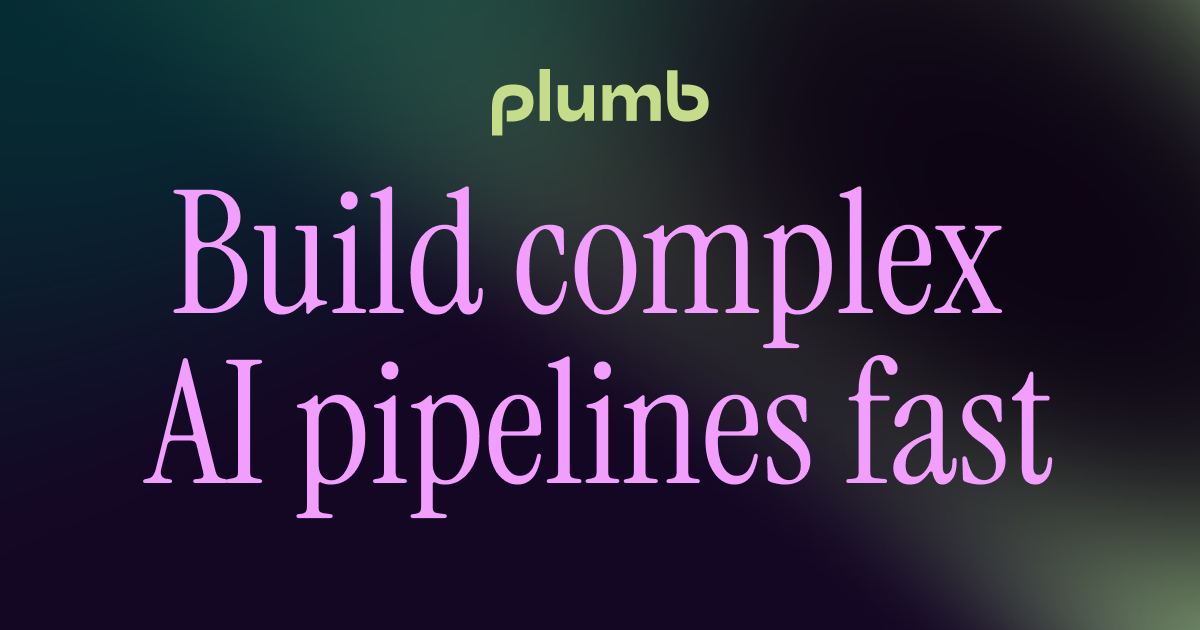
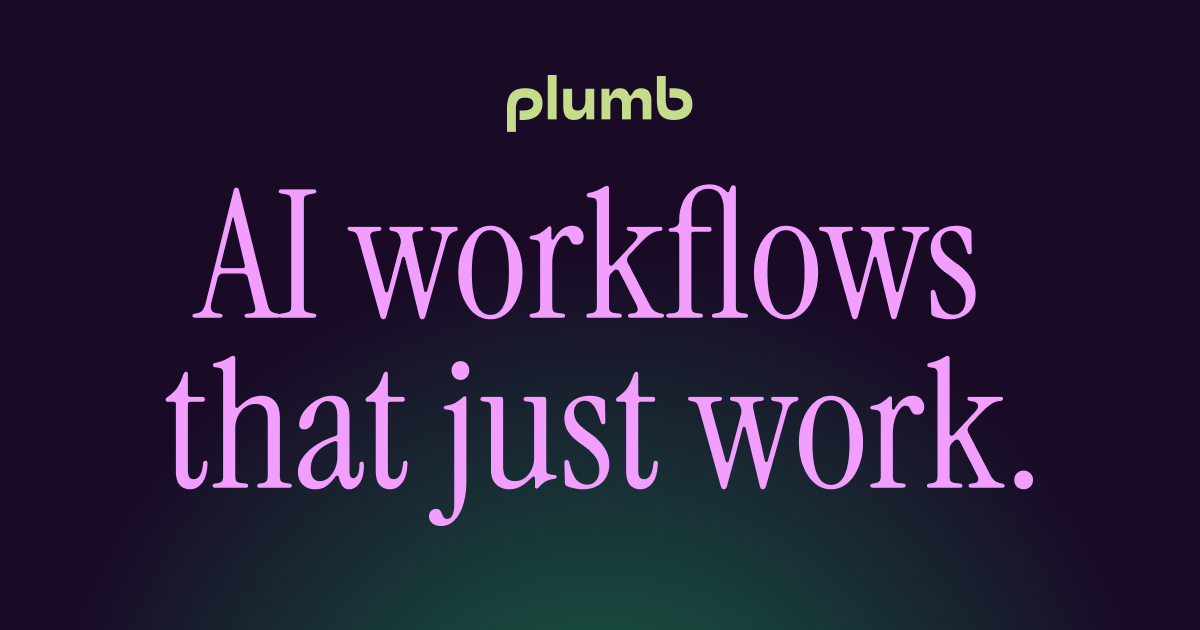
update post styling and plumb card

diff --git a/src/app/posts/[slug]/IncompleteArticle.tsx b/src/app/posts/[slug]/IncompleteArticle.tsx
@@ -15,7 +15,7 @@ export const IncompleteArticle = ({ slug }: { slug: string }) => {
   }, []);
 
   return (
-    <div className="mx-auto max-w-xl p-8 border border-purple-500 dark:border-purple-300 rounded-xl bg-background text-center">
+    <div className="mt-10 mb-3 w-full p-8 border border-purple-500 dark:border-purple-300 rounded-xl bg-background text-center">
       {submitted ? (
         <>
           <h2 className="my-0 py-0 border-none">Thank you!</h2>
@@ -32,11 +32,10 @@ export const IncompleteArticle = ({ slug }: { slug: string }) => {
             This post is a work in progress and not yet complete. If you're
             interested in reading the full article, let me know!
           </p>
-          <h3 className="text-lg">Want to Read It?</h3>
           <p className="text-sm">
-            Your interest helps me prioritize which articles to finish first.
-            Click below to tell me you want to read this article when it's
-            complete.
+            <strong>Want to Read It?</strong> Your interest helps me prioritize
+            which articles to finish first. Click below to tell me you want to
+            read this article when it's complete.
           </p>
           <div className="pt-4 flex justify-center items-center">
             <Button onClick={handleSubmit} variant="outline">

diff --git a/src/components/toc.tsx b/src/components/toc.tsx
@@ -3,14 +3,14 @@
 
 import * as React from "react";
 
-import { TableOfContents } from "@/lib/toc";
-import { cn } from "@/lib/utils";
-import { useMounted } from "@/hooks/use-mounted";
 import {
   Collapsible,
   CollapsibleContent,
   CollapsibleTrigger,
 } from "@/components/ui/collapsible";
+import { useMounted } from "@/hooks/use-mounted";
+import { TableOfContents } from "@/lib/toc";
+import { cn } from "@/lib/utils";
 
 interface TocProps {
   toc: TableOfContents;
@@ -88,7 +88,7 @@ export function TableOfContents({ toc }: TocProps) {
       onOpenChange={setOpen}
       className={cn(
         "inline-flex",
-        "z-100 bg-fixed bg-gradient-to-b from-bg-from to-bg-to pl-6 pr-8 py-3 text-sm border border-magenta-900",
+        "z-100 bg-background pl-6 pr-8 py-3 text-sm border border-magenta-900",
         open ? "rounded-md flex-col w-full p-3" : "rounded-full"
       )}
     >

diff --git a/scripts/get-notes/run.ts b/scripts/get-notes/run.ts
@@ -1,16 +1,16 @@
 #!/usr/bin/env ts-node
 
-import fs from "fs";
-import os from "os";
-import matter from "gray-matter";
 import { format, parseISO } from "date-fns";
+import fs from "fs";
+import matter from "gray-matter";
+import os from "os";
 import slugify from "slugify";
 
 const EMBED_LINK_REGEX = /!\[\[([a-zA-ZÀ-ÿ0-9-'?%.():&,+/€_! ]+)\]\]/g;
 
 const notesDir = `${os.homedir}/Documents/vault`;
 
-const imagesDir = `${notesDir}/00 - Meta/02 - Media`;
+const imagesDir = `${notesDir}/01 - Meta/03 - Media`;
 
 const copied = {
   notes: 0,

diff --git a/src/app/posts/[slug]/page.tsx b/src/app/posts/[slug]/page.tsx
@@ -137,9 +137,9 @@ export default async function Post({
                 height: "auto",
               }}
             />
-            <span className="text-sm block pt-1 text-center">
-              Check out Plumb
-            </span>
+            <div className="text-sm block pt-1 text-center">
+              Type your workflows into existence. <strong>Use Plumb.</strong>
+            </div>
           </a>
         </div>
       </div>
